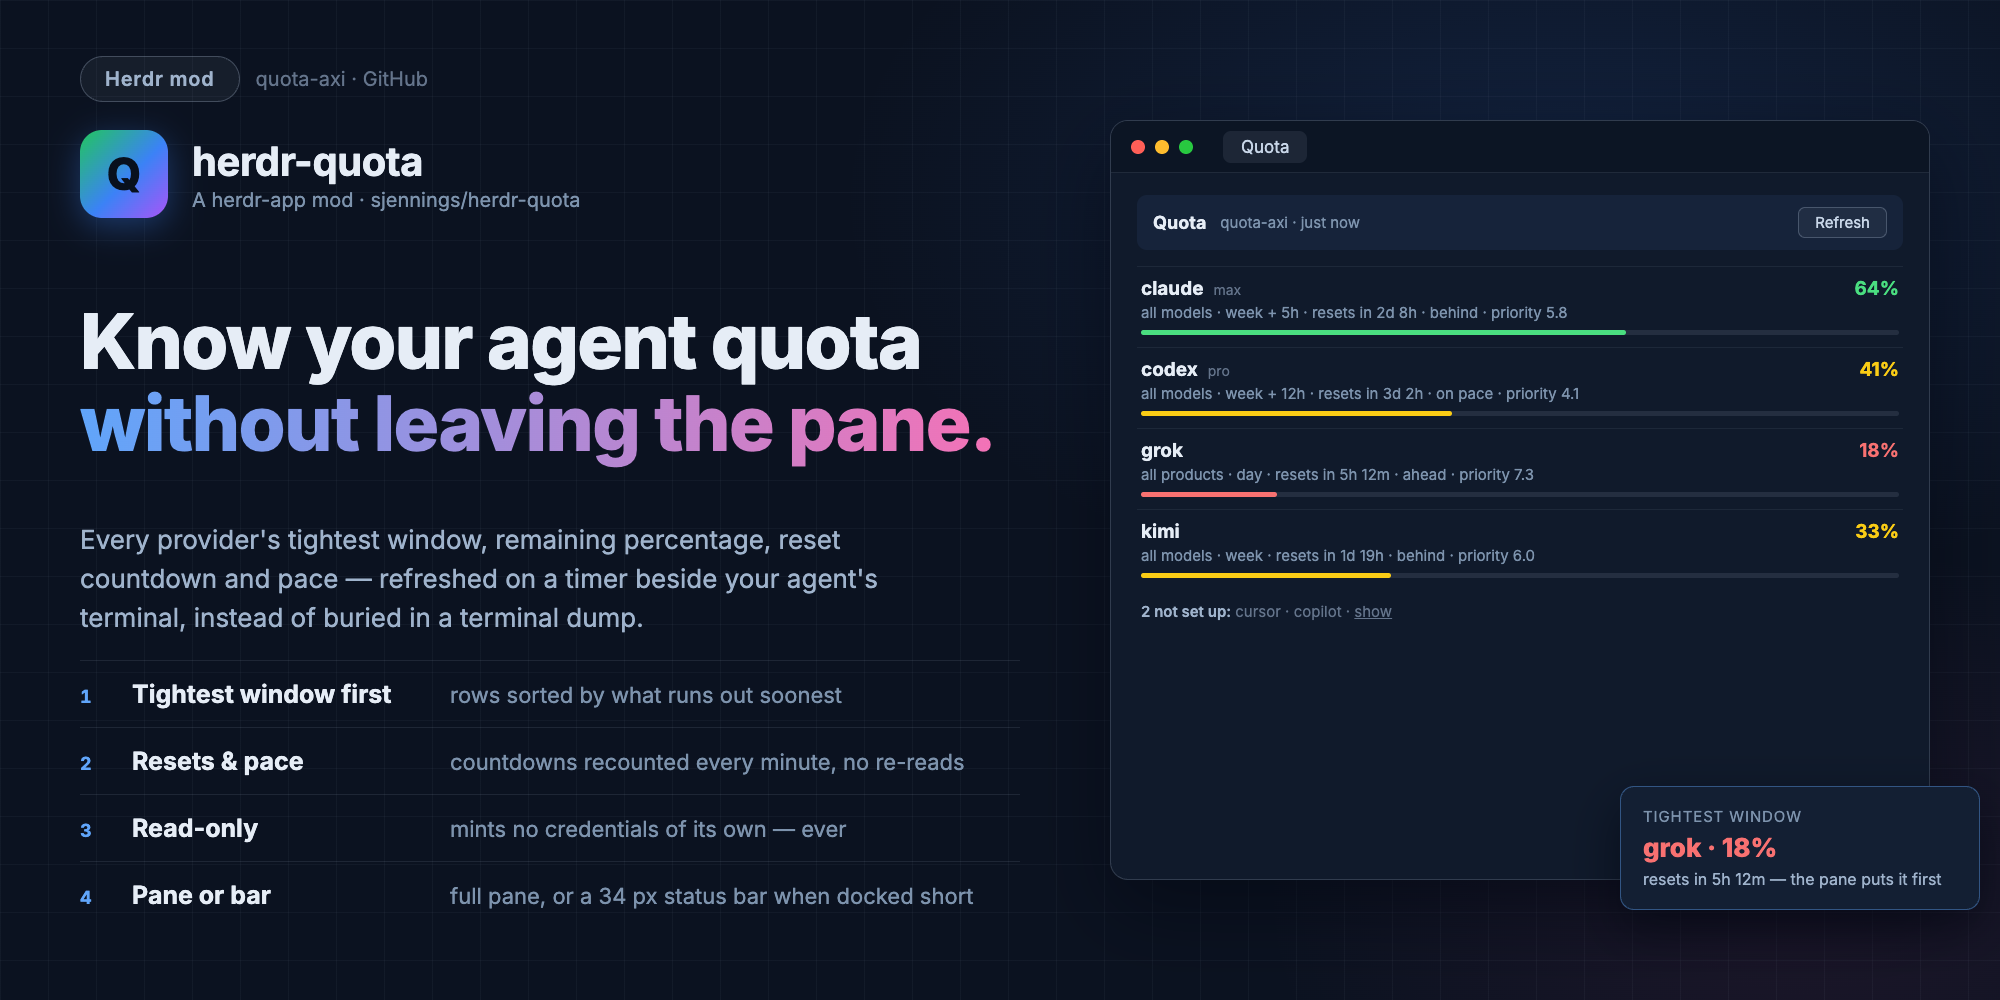
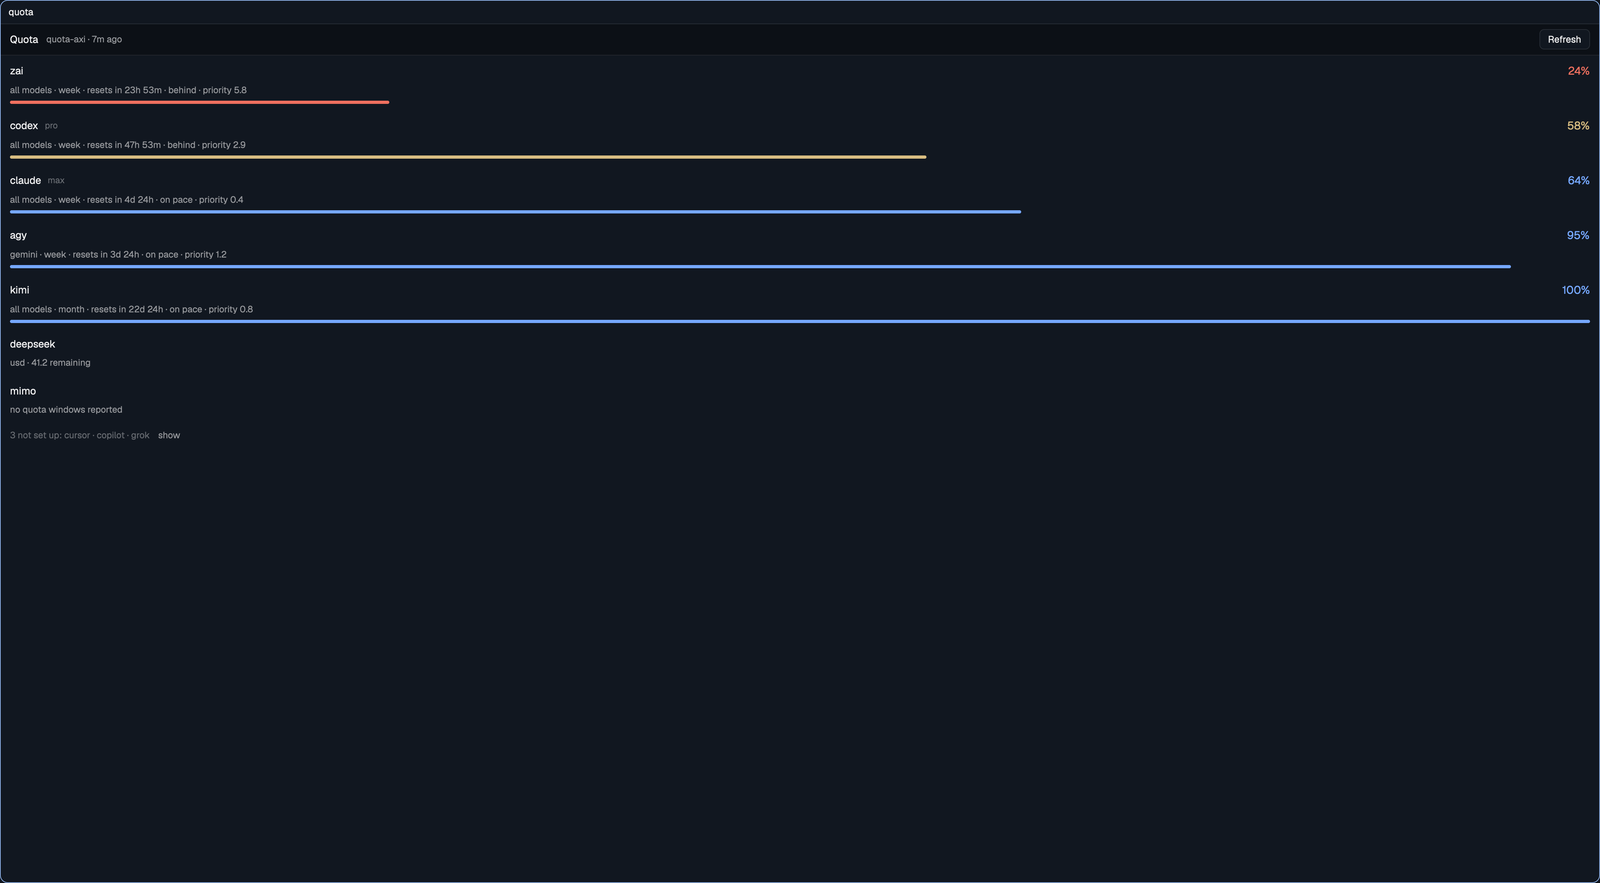
no-mistakes(review): Restore pane screenshot, re-render sorted attract card to preview.png

diff --git a/docs/attract/quota-attract.html b/docs/attract/quota-attract.html
@@ -149,7 +149,7 @@
   instead of buried in a terminal dump.</p>
 
   <div class="feats">
-    <div class="feat"><span class="n">1</span><span class="l">Tightest window first</span><span class="d">rows sorted by what runs out soonest</span></div>
+    <div class="feat"><span class="n">1</span><span class="l">Tightest window first</span><span class="d">rows sorted lowest remaining percent first</span></div>
     <div class="feat"><span class="n">2</span><span class="l">Resets &amp; pace</span><span class="d">countdowns recounted every minute, no re-reads</span></div>
     <div class="feat"><span class="n">3</span><span class="l">Read-only</span><span class="d">mints no credentials of its own — ever</span></div>
     <div class="feat"><span class="n">4</span><span class="l">Pane or bar</span><span class="d">full pane, or a 34&nbsp;px status bar when docked short</span></div>
@@ -167,18 +167,6 @@
       </div>
 
       <div class="row">
-        <div class="l1"><span class="name">claude</span><span class="plan">max</span><span class="pct ok">64%</span></div>
-        <div class="meta">all models · week + 5h · resets in 2d 8h · behind · priority 5.8</div>
-        <div class="bar"><i class="fill-ok" style="width:64%"></i></div>
-      </div>
-
-      <div class="row">
-        <div class="l1"><span class="name">codex</span><span class="plan">pro</span><span class="pct warn">41%</span></div>
-        <div class="meta">all models · week + 12h · resets in 3d 2h · on pace · priority 4.1</div>
-        <div class="bar"><i class="fill-warn" style="width:41%"></i></div>
-      </div>
-
-      <div class="row">
         <div class="l1"><span class="name">grok</span><span class="plan"></span><span class="pct bad">18%</span></div>
         <div class="meta">all products · day · resets in 5h 12m · ahead · priority 7.3</div>
         <div class="bar"><i class="fill-bad" style="width:18%"></i></div>
@@ -188,6 +176,18 @@
         <div class="l1"><span class="name">kimi</span><span class="plan"></span><span class="pct warn">33%</span></div>
         <div class="meta">all models · week · resets in 1d 19h · behind · priority 6.0</div>
         <div class="bar"><i class="fill-warn" style="width:33%"></i></div>
+      </div>
+
+      <div class="row">
+        <div class="l1"><span class="name">codex</span><span class="plan">pro</span><span class="pct warn">41%</span></div>
+        <div class="meta">all models · week + 12h · resets in 3d 2h · on pace · priority 4.1</div>
+        <div class="bar"><i class="fill-warn" style="width:41%"></i></div>
+      </div>
+
+      <div class="row">
+        <div class="l1"><span class="name">claude</span><span class="plan">max</span><span class="pct ok">64%</span></div>
+        <div class="meta">all models · week + 5h · resets in 2d 8h · behind · priority 5.8</div>
+        <div class="bar"><i class="fill-ok" style="width:64%"></i></div>
       </div>
 
       <div class="folded"><b>2 not set up:</b> cursor · copilot · <u>show</u></div>
